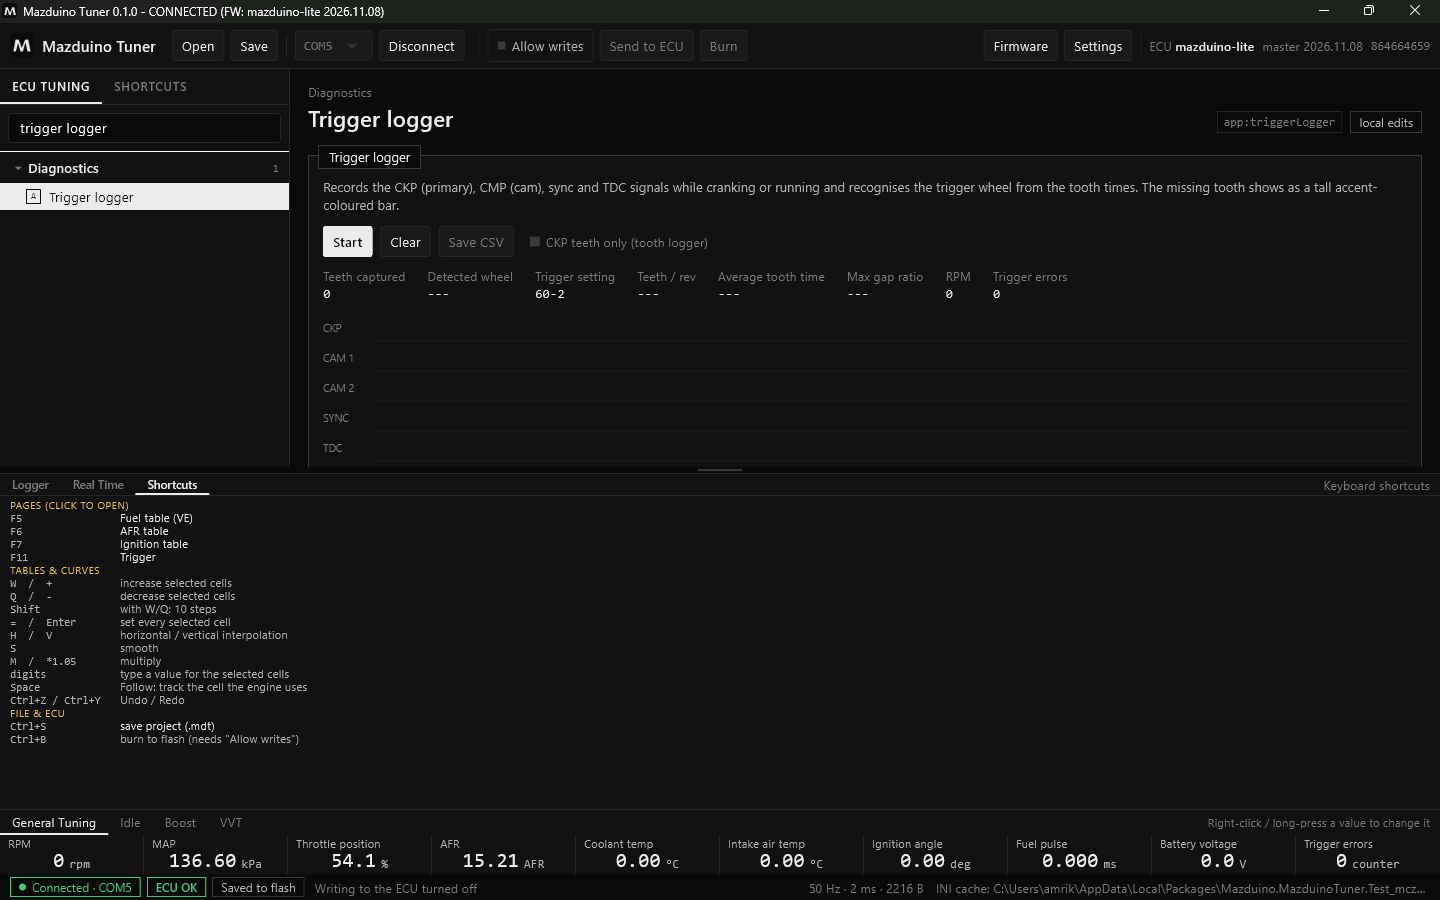
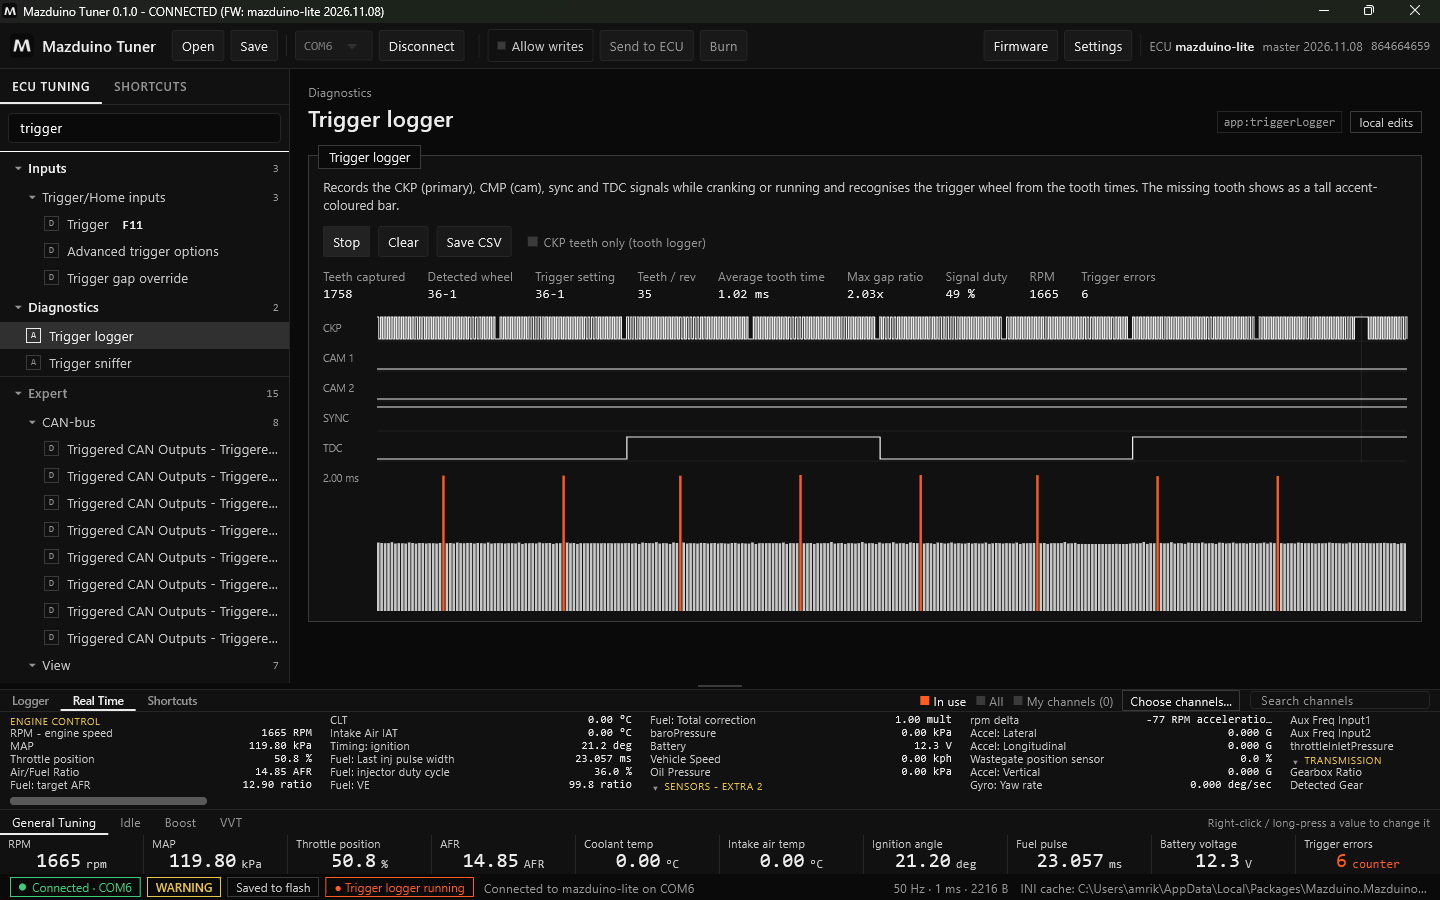
trigger logger and sniffer screenshots with the engine running

diff --git a/docs/mazduino-tuner-diagnostik.md b/docs/mazduino-tuner-diagnostik.md
@@ -62,10 +62,20 @@ tampil sebagai batang tinggi berwarna oranye.
 
 Centang **CKP teeth only (tooth logger)** untuk merekam gigi CKP saja.
 
+ECU mengirim rekaman per buffer. Jeda waktu di antara dua buffer tidak terekam, jadi digambar pendek
+dengan garis tipis vertikal sebagai penanda. Garis itu bukan berarti sinyal hilang.
+
 ## Trigger Sniffer
+
+![Trigger sniffer](img/mazduino-tuner/trigger-sniffer.png)
 
 Menampilkan tepi sinyal CKP dan CMP serta titik TDC seperti yang dilihat firmware (engine sniffer),
 dengan RPM setiap siklus. Bisa dipakai di semua board Mazduino.
+
+1. Klik **Start**. Setiap siklus mesin yang diterima menambah **Charts received**.
+2. Garis oranye **TDC** menandai titik mati atas silinder 1 beserta RPM saat itu.
+3. Batang di bawah adalah waktu antar gigi; batang oranye adalah gigi yang hilang.
+4. Bandingkan **Detected wheel** dengan **Trigger setting**, dan perhatikan **Trigger errors**.
 
 Firmware hanya merekam di bawah batas RPM engine sniffer. Jika RPM di atas batas itu, halaman ini
 memberi tahu Anda.
